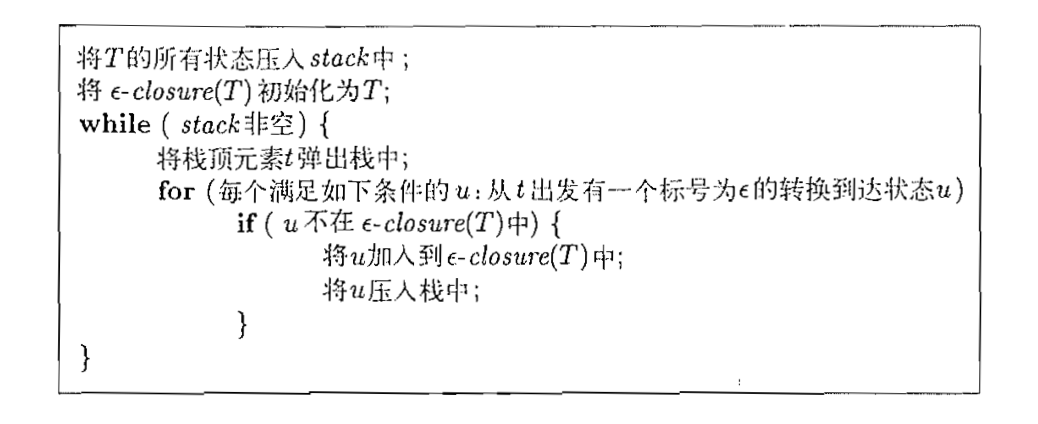
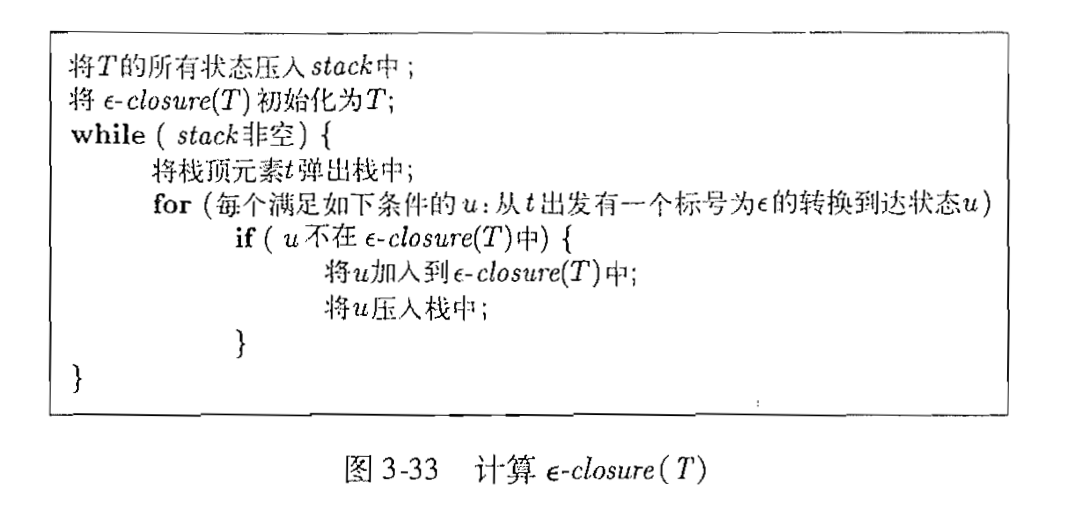
文档更新

diff --git a/第3章-词法分析.md b/第3章-词法分析.md
@@ -206,6 +206,100 @@
 
   <img src="./images/词法分析38.png"  style="zoom:50%"/>
 
+#### 3.3.4 正则定义
+
++ 例3.5， c语言的标识符是由字母，数字和下划线组成的串
+
+  <img src="./images/词法分析39.png"  style="zoom:50%"/>
+
++ 例3.6，形如5280， 0.01234，6.336E4或1.89E-4的串
+
+  <img src="./images/词法分析40.png"  style="zoom:50%"/>
+
+#### 3.3.5 正则表达式的扩展
+
++ 例3-5正则定义，改下为下图:
+
+  <img src="./images/词法分析41.png"  style="zoom:50%"/>
+
++ 例3-6中的正则定义，改下为下图:
+
+  <img src="./images/词法分析42.png"  style="zoom:50%"/>
+
++ 扩展表示法, 如图3-8:
+
+  <img src="./images/词法分析43.png"  style="zoom:50%"/>
+
+### 3.4词法单元的识别
+
++ 分支语句的文法，以及一些词法单元的模式
+
+  <img src="./images/词法分析44.png"  style="zoom:50%"/>
+
+  <img src="./images/词法分析45.png"  style="zoom:50%"/>
+
+  <img src="./images/词法分析46.png"  style="zoom:50%"/>
+
+#### 3.4.1 状态转换图
+
++ 状态转换图: 作为构造词法分析器的一个中间步骤， 我们首先将模式转换成具有特定风格的流图
++ 状态转换图（transition diagram）有--组被称为"状态"（state）的结点或圆圈
++ 状态图中的边 （edge） 从图的一个状态指向另一个状态。 每条边的标号包含了一个或多个符号
+  - 如果我们处于某个状态 s , 并且下一个输入符号是 a , 我们就会寻找一条从 s 离开 且标号为a的边
+  - 如果我们找到了这样的一条边， 就将forward指针前移， 并进入状态转换图中该边所指的状态
+
++ 一些关于状态转换图 的重要约定如下
+
+  1. 某些状态称为接受状态或最终状态。
+     - 这些状态表明已经找到了一个词素, ， 虽然实际的词素可能并不包括lexemeBegin指针和forward指针之间的所有字符
+     - 我们用双层的圈来表示一个接受状态
+     - 并且如果该状态要执行一个动作的话——通常是向语法分析器返回一个词法单元和相 关属性值——我们将把这个动作附加到该接受状态上
+  2.  如果需要将forward指针 回退一个位置(即相应的词素并不包含那个在最后一步使 我们到达接受状态的符号), 那么我们**将在该接受状态的附近加上一个***
+  3. 有一个状态被指定为开始状态， 也称初始状态， 该状态由一条没有出发结点的、标号为 “start”的边指明。 
+     - 在读入任何输入符号之前，状态转换图总是位于它的开始状态
+
++ 例3.9， 图3-13给出了能够识别所有与词法单元relop匹配的词素的状态转换图
+
+  <img src="./images/词法分析47.png"  style="zoom:50%"  />
+
+  - 请注意，状态4，状态8都有一个*号，说明我们必须回退一个位置
+
+#### 3.4.2 保留字和标识符的识别
+
+- 如果使用下面的转换图，怎么区分id标识符和关键字?
+
+  <img src="./images/词法分析48.png"  style="zoom:50%"  />
+
++ 使用下面两种方法来处理那些关键字
+
+  1. 初始化时就将各个保留字填入符号表中
+
+  2. 为每个关键字建立单独的状态转换图
+
+     - 优先识别关键字的词法单元
+
+       <img src="./images/词法分析49.png"  style="zoom:50%"  />
+
+       
+
+
+
++ 图3-16显示了词法单元number的状态转换图
+
+  <img src="./images/词法分析50.png"  style="zoom:50%"  />
+
++ 空白符的状态转换图
+
+  - delim表示空白字符, 空格，制表符，换行符等
+
+  <img src="./images/词法分析51.png"  style="zoom:50%"  />
+
+#### 3.4.4 基于状态转换图的词法分析器的体系结构
+
++ 根据图3-13实现的relop代码实现
+
+  <img src="./images/词法分析52.png"  style="zoom:50%"  />
+
 ### 3.5 词法分析器生成工具Lex
 
 > 它的核心部分， Lex 编译器将输入的模式转换成一个状态转换图， 并生成相应的实现代码， 并存放到文件 lex. yy. c 中。 这些代码模拟了状态转换图
@@ -248,7 +342,7 @@
 
 + Lex词法分析程序示例
 
-  <img src="./images/词法分析1.png"  style="zoom:50%"   />
+  <img src="./images/词法分析1.png"  style="zoom:40%"   />
   
   + 声明部分
   
@@ -400,7 +494,7 @@
 
 + 模拟一个DFA
 
-  <img src="./images/词法分析8.png" style="zoom:100%"    />
+  <img src="./images/词法分析8.png" style="zoom:50%"    />
 
   - 输入：一个以文件结束符eof结尾的字符串 x 。 DFA  D 的开始状态为s<sub>0</sub>，接受状态集为F，转换函数为move
   - 输出：如果D 接受x, 则回答“yes"，否则回答“no”
@@ -446,7 +540,7 @@
 
   - 根据上面的思想， 我们可以得到下图显示的方法，该方法构造了_D_的状态集合_Dstates_和_D_的转换函数_Dtran_
 
-    <img src="./images/词法分析10.png" style="zoom:100%"    />
+    <img src="./images/词法分析10.png" style="zoom:50%"    />
 
     - _D_的开始状态是ε-closure(s<sub>0</sub>), _D_的接受状态是所有**至少包含了N的一个接受状态**的状态集合
 
@@ -454,7 +548,7 @@
 
       - 下图描述了如何计算 ε-closure(_T_)
 
-      <img src="./images/词法分析11.png"  style="zoom:100%"    />
+      <img src="./images/词法分析11.png"  style="zoom:50%"    />
 
 + 示例，对于(a|b)*abb的NFA， 如何转换为DFA？
 
@@ -478,7 +572,7 @@
 
      5. 如果我们对未加标记的集合B和C继续这个处理过程，最终会使得这个DFA的所有状态都加上标记。
 
-        <img src="./images/词法分析13.png"  style="zoom:100%"    />
+        <img src="./images/词法分析13.png"  style="zoom:50%"    />
 
         + 我们实际上构造出5个不同的DFA状态
         + 第一行对于a, b : Dtran(A, a) = B， Dtran(A, b) = C
@@ -488,7 +582,7 @@
 
 > 许多文本编辑程序使用的策略是根据一个正则 表达式构造出相应的NFA,然后使用类似于on-the-fly（即边构造边使用的）的子集构造法来模拟这个 NFA的执行
 
-<img src="./images/词法分析14.png"  style="zoom:100%"    />
+<img src="./images/词法分析14.png"  style="zoom:50%"    />
 
 + 输入: 一个以文件结束符eof结尾的输入串x, 一个NFA N, 其开始状态为s<sub>0</sub>, 接受状态集为F， 转换函数为move
 + 输出: 如果N接受想， 则返回"yes"。否则，返回"no"
@@ -564,7 +658,7 @@
 
 + 为正则表达式 r= (a|b)*abb构造NFA的过程
 
-  <img src="./images/词法分析19.png"  style="zoom:100%"   />
+  <img src="./images/词法分析19.png"  style="zoom:80%"   />
 
   1. 如图3-43显示了r的一棵语法分析树
 
@@ -616,7 +710,7 @@
 
 #### 3.8.1 生成的词法分析器的结构
 
-<img src="./images/词法分析26.png"  style="zoom:100%"  />
+<img src="./images/词法分析26.png"  style="zoom:70%"  />
 
 + 作为词法分析器的程序包含一个固定的模拟自动机的程序
 
@@ -647,7 +741,7 @@
 
   - 合并后的NFA，如图3-52
 
-    <img src="./images/词法分析30.png"  style="zoom:100%"   />
+    <img src="./images/词法分析30.png"  style="zoom:50%"   />
 
   
 
@@ -685,7 +779,7 @@
 
 - 使用真机构造法可以根据图3-52中NFA构造得到一个DFA。 图3-54显示了这个DFA的一个转换图。
 
-  <img src="./images/词法分析32.png"  style="zoom:100%"   />
+  <img src="./images/词法分析32.png"  style="zoom:50%"   />
 
 + 例3.29， 假设3-54中的NFA的输入为abba
   1. 处理输入时进入过的状态序列为0137、247、58、68。 
